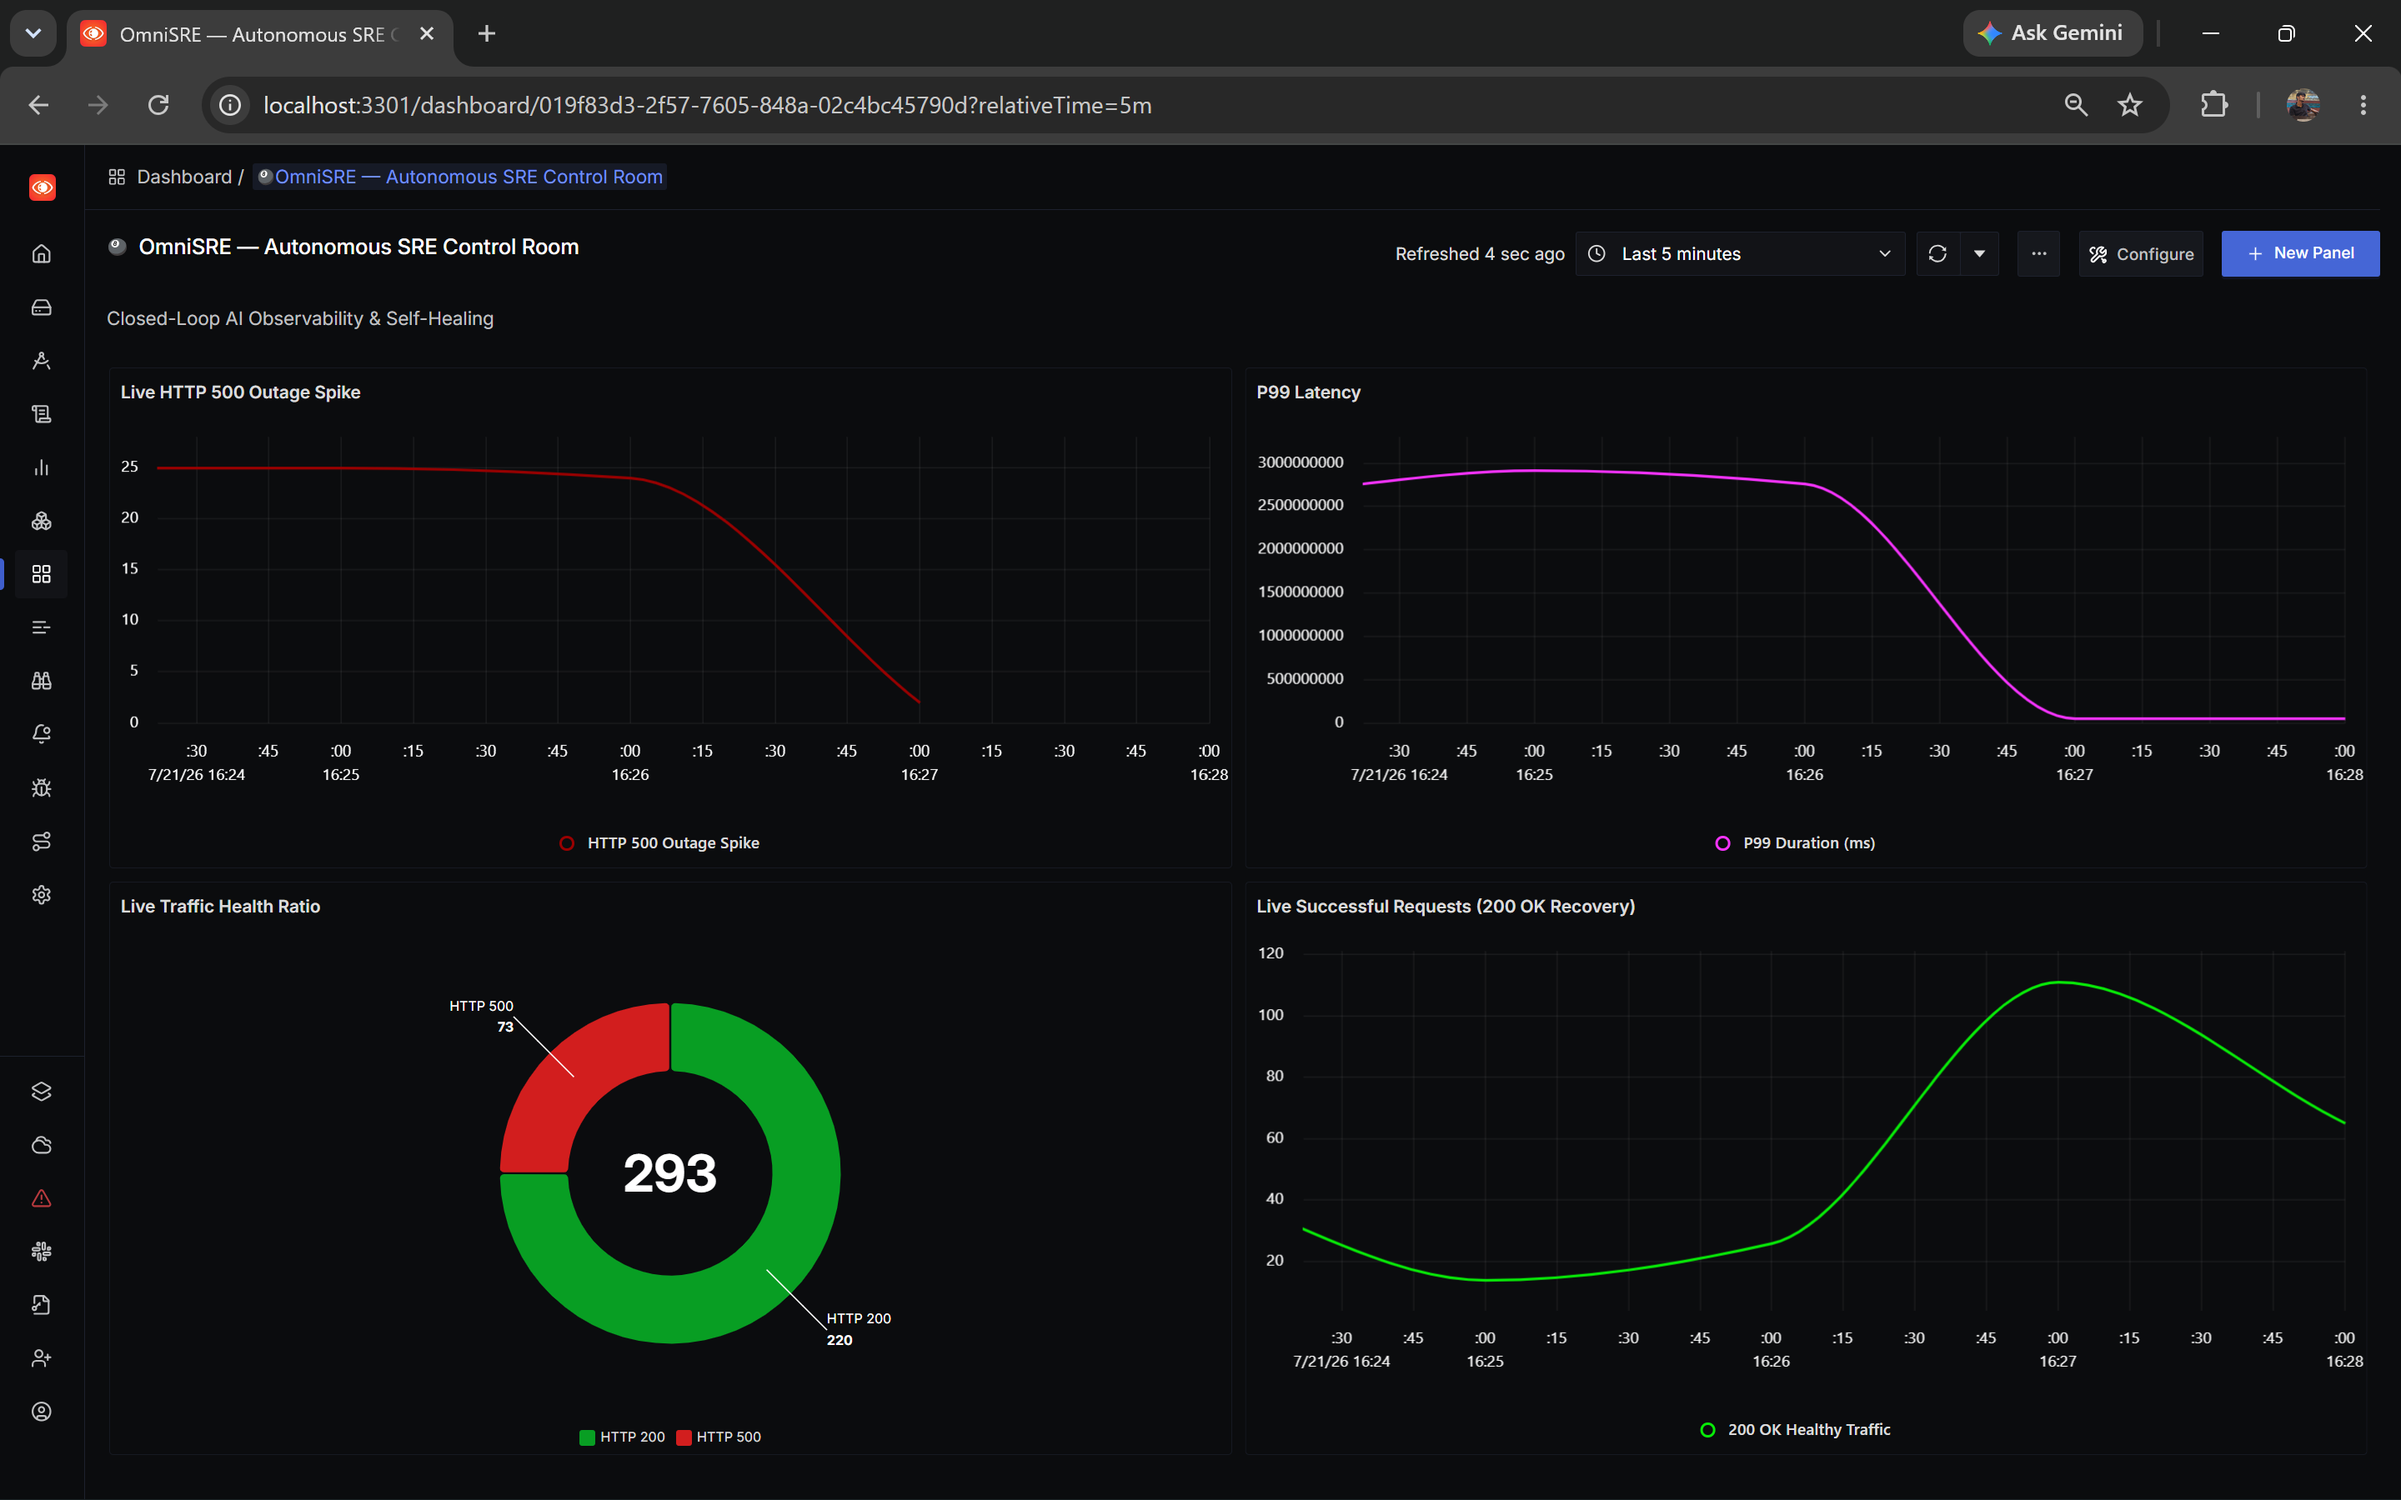
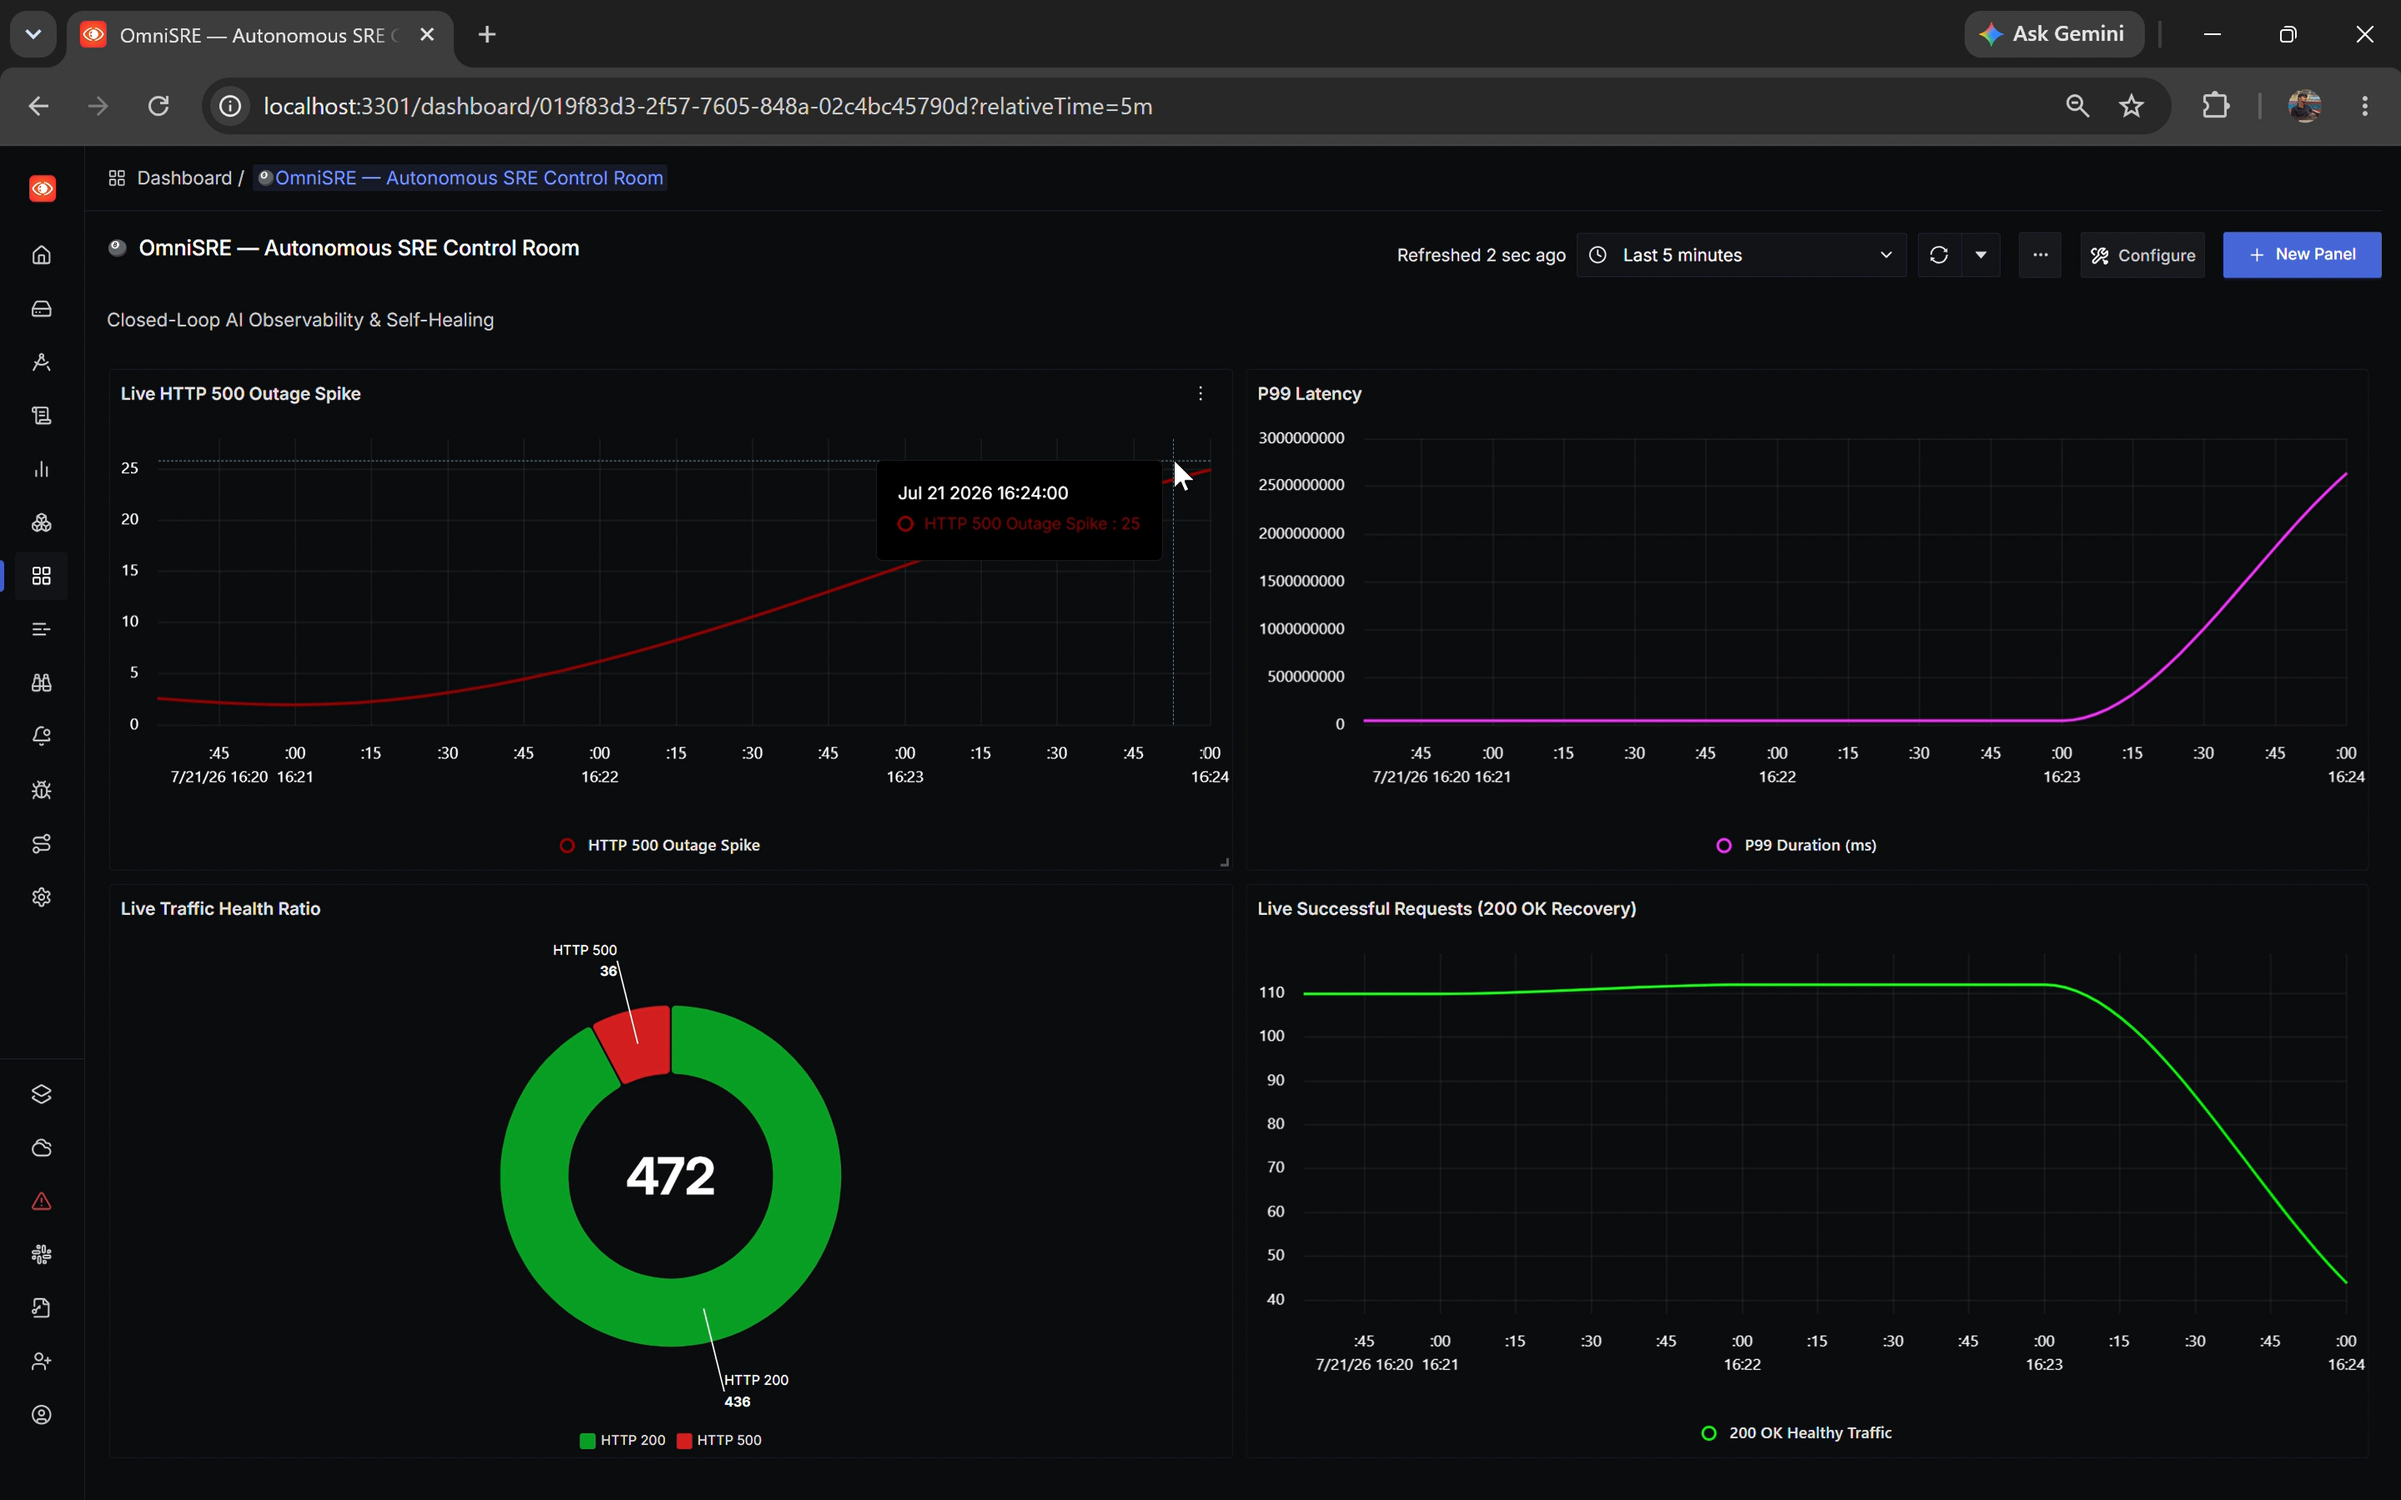
fix: replace asset outage screenshot with true full-res outage image, add Recovery.png, and update image links in README and blog post

diff --git a/blog_post.md b/blog_post.md
@@ -363,6 +363,8 @@ def apply_remediation_and_restart(service_name: str, key: str, value: str):
 | **HTTP 200 Rate** | < 60% | **100%** |
 | **MTTR** | N/A (no human awake) | **< 40 seconds** |
 
+![SigNoz Recovery Curve](https://raw.githubusercontent.com/rahulchandra2004/omnisre-signoz-hackathon/main/assets/Recovery.png)
+
 ---
 
 ## 3 Things I Learned That Nobody Tells You

diff --git a/README.md b/README.md
@@ -251,6 +251,7 @@ Reply `YES` to authorize the remediation.
 The agent scales `DB_POOL_SIZE` to 50, restarts `buggy_service` via Docker socket, waits 15 seconds, and posts a recovery proof card.
 
 ![Self-Healing Proof](./assets/Self-Healing%20%26%20Proof.png)
+![SigNoz Recovery Curve](./assets/Recovery.png)
 
 ---
 
